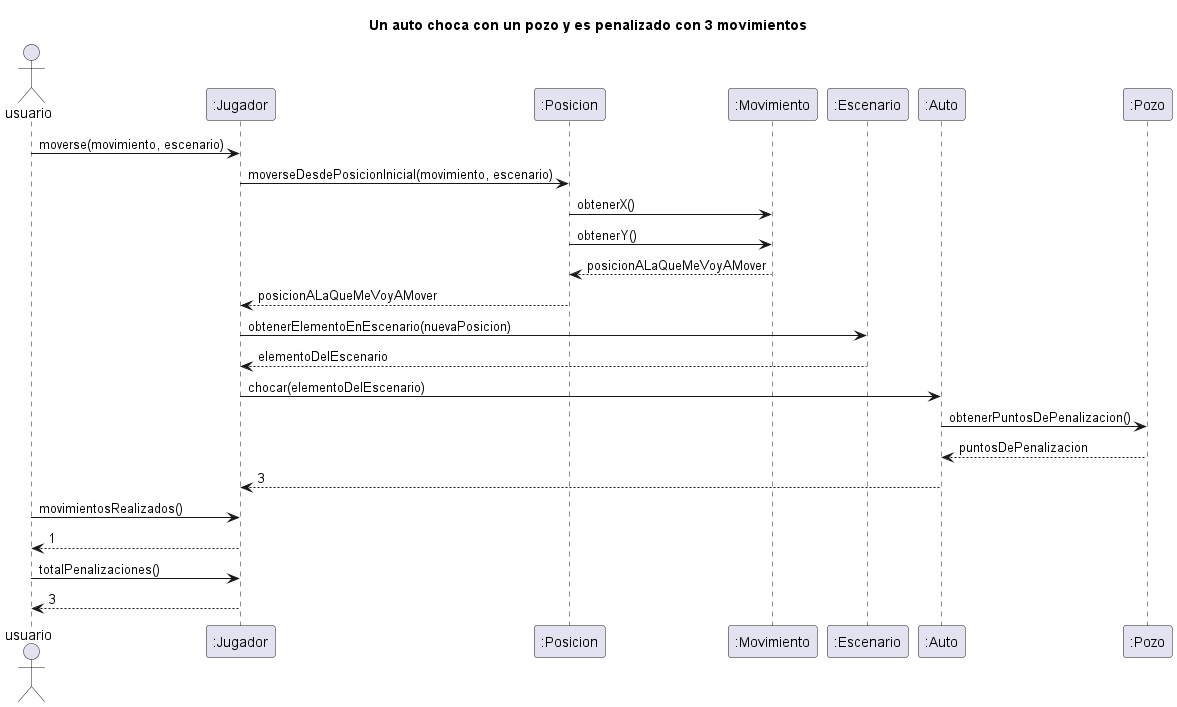
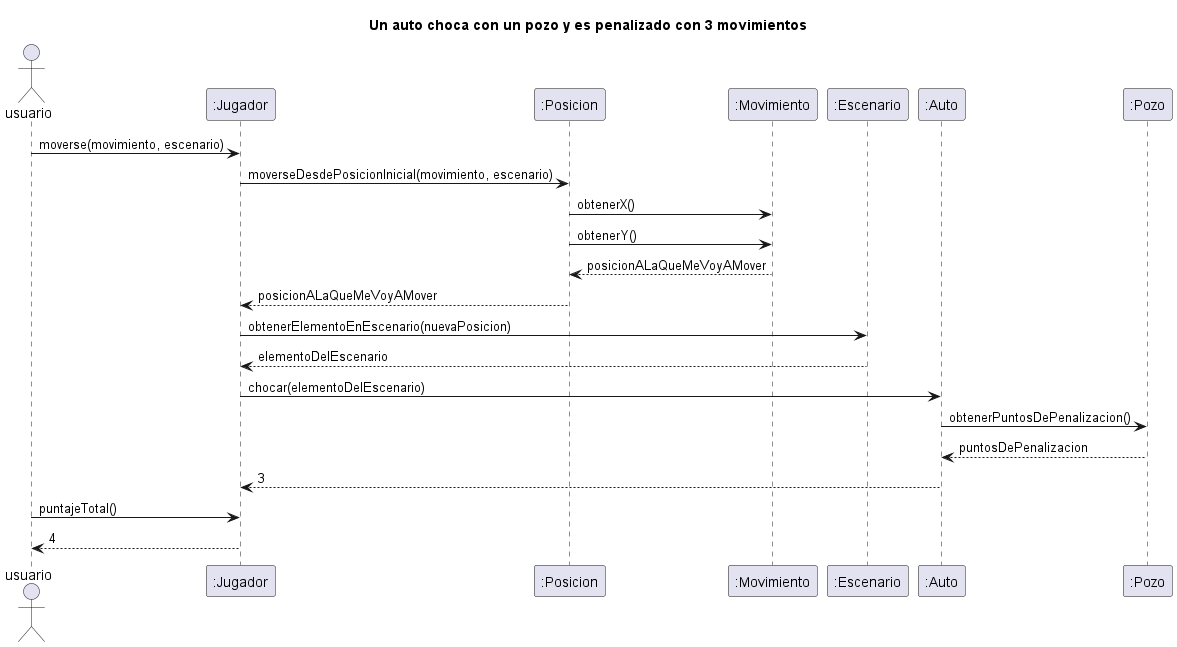
Actualizo diagramas de clase y de secuencia

diff --git a/src/main/java/edu/fiuba/algo3/modelo/Jugador.java b/src/main/java/edu/fiuba/algo3/modelo/Jugador.java
@@ -15,16 +15,8 @@ public class Jugador {
         this.penalizaciones = 0;
     }
 
-    public int totalPenalizaciones() {
-        return penalizaciones;
-    }
-
     public Posicion posicionDelJugador() {
         return this.posicion;
-    }
-
-    public int movimientosRealizados() {
-        return this.cantidadMovimientos;
     }
 
     public int puntajeTotal(){ return (this.cantidadMovimientos + this.penalizaciones);}

diff --git a/src/main/test/edu/fiuba/algo3/unitarios/JugadorTest.java b/src/main/test/edu/fiuba/algo3/unitarios/JugadorTest.java
@@ -12,9 +12,7 @@ public class JugadorTest {
     public void unJugadorInicializaCorrectamente() {
         Jugador jugador = new Jugador(new Posicion(1, 1), new Moto());
 
-        assertEquals(jugador.posicionDelJugador(), new Posicion(1, 1));
-        assertEquals(jugador.totalPenalizaciones(), 0);
-        assertEquals(jugador.movimientosRealizados(), 0);
+        assertEquals(jugador.puntajeTotal(), 0);
     }
 
     @Test
